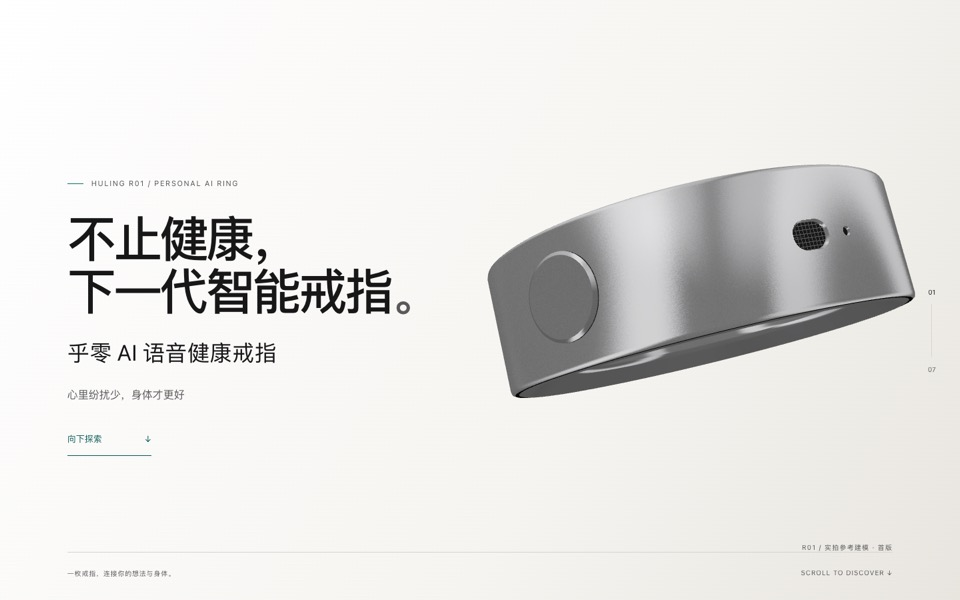
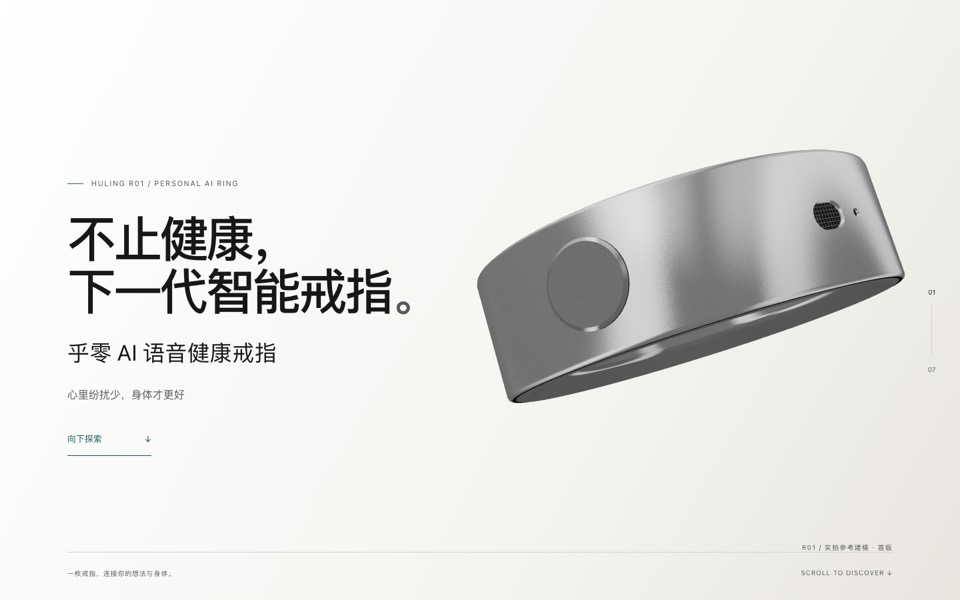
Fix glass floor add varied scroll rotation and interactive three-finish viewer

Changed region(s): [[0.5625, 0.24, 0.9688, 0.66], [0.5, 0.42, 0.5938, 0.69], [0.5312, 0.39, 0.5625, 0.42]]

diff --git a/motion-studies.js b/motion-studies.js
@@ -58,12 +58,40 @@
    ()=>newView(.73,.5,mix(.20,.30,q),.36,-.55,mix(-2,-.5,q))
   ][i]();
  }
- function controlsPose(v,p=0) {
-  return {...v,size:mobile.matches?v.size:Math.min(v.size,.26),rx:1.17+Math.sin(p*Math.PI)*.06,ry:-1.91+Math.sin(p*Math.PI*2)*.065,rz:.05+Math.sin(p*Math.PI)*.08};
+ const stopPoses=[
+  {rx:.95,ry:-1.82,rz:.30},
+  {rx:1.1,ry:-1.95,rz:-.20},
+  {rx:.75,ry:-2.12,rz:.48},
+  null,
+  {rx:1.05,ry:-1.72,rz:-.12},
+  {rx:.82,ry:-1.95,rz:.22},
+  {rx:.9,ry:-1.9,rz:.18}
+ ];
+ function controlsPose(v,p=0,scene=0) {
+  const pose=stopPoses[scene]||stopPoses[0];
+  // A full turn while travelling, then ease into a distinct readable hardware view.
+  const travel=1-smooth(clamp((p-.10)/.70));
+  const turn=(variant==='b'?1.15:variant==='c'?-.95:.85)*Math.PI*2*travel;
+  return {...v,size:mobile.matches?v.size:Math.min(v.size,.26),
+   rx:pose.rx+Math.sin(p*Math.PI*2)*.18*travel,
+   ry:pose.ry+turn,rz:pose.rz+Math.sin(p*Math.PI)*.42*travel};
  }
  function productView(i,p) {
   const v=rawProductView(i,p);
-  return i===3?v:controlsPose(v,p);
+  if(i===6)return {...v,x:.73,y:.5,size:mobile.matches?v.size:.28*Math.min(W*.44,H*.72)/Math.min(W,H),...stopPoses[6]};
+  return i===3?v:controlsPose(v,p,i);
+ }
+ // Conservative projection of the unchanged ring envelope, including perspective.
+ function ringEnvelope(v) {
+  const cx=Math.cos(v.rx),sx=Math.sin(v.rx),cy=Math.cos(v.ry),sy=Math.sin(v.ry),cz=Math.cos(v.rz),sz=Math.sin(v.rz);
+  const m=[cz*cy,sz*cy,-sy,cz*sy*sx-sz*cx,sz*sy*sx+cz*cx,cy*sx,cz*sy*cx+sz*sx,sz*sy*cx-cz*sx,cy*cx];
+  const scale=Math.min(W,H)*v.size,points=[];
+  for(const z of [-3.75/9.9,3.75/9.9])for(let j=0;j<128;j++){
+   const t=j/128*Math.PI*2,x=12.65/9.9*Math.cos(t),y=12.65/9.9*Math.sin(t);
+   const yy=m[1]*x+m[4]*y+m[7]*z,zz=m[2]*x+m[5]*y+m[8]*z;
+   points.push(yy*scale*5/(5-zz));
+  }
+  return {bottom:Math.max(...points),top:Math.min(...points)};
  }
  function ellipse(ctx,x,y,rx,ry,fill,stroke,lw=1) {
   ctx.beginPath();ctx.ellipse(x,y,Math.max(.1,rx),Math.max(.1,ry),0,0,Math.PI*2);
@@ -77,13 +105,17 @@
  }
  function waterView(p,alpha=1) {
   const c=cupGeometry(),motion=drop(p),diam=c.w*25.3/73;
-  const entry=c.top+c.h*.26,start=c.top-c.h*.22,bottom=c.top+c.h*.915-diam*.37;
+  const ringScale=diam/((25.3/9.9)*Math.min(W,H));
+  const settled=controlsPose(newView(c.cx/W,.5,ringScale,0,0,0,alpha),1,4);
+  const entry=c.top+c.h*.26,start=c.top-c.h*.22,bottom=c.top+c.h*.855-ringEnvelope(settled).bottom-2;
   // Air ends at the water line; water resistance then reduces translational and angular speed.
   let y=motion.distance<=.25?mix(start,entry,motion.distance/.25):mix(entry,bottom,(motion.distance-.25)/.75);
   const drift=(variant==='b'?Math.sin(p*5)*.08:variant==='c'?Math.sin(p*4)*.12:Math.sin(p*3)*.035)*c.w*(1-p);
-  const v=controlsPose(newView((c.cx+drift)/W,y/H,diam/((25.3/9.9)*Math.min(W,H)),0,0,0,alpha),p);
+  const v=controlsPose(newView((c.cx+drift)/W,y/H,diam/((25.3/9.9)*Math.min(W,H)),0,0,0,alpha),p,4);
+  const envelope=ringEnvelope(v),floorY=c.top+c.h*.855;
+  v.y=Math.min(v.y,(floorY-envelope.bottom-2)/H);
   drawGlass(c,p,alpha);
-  last.water={...c,ringDiameter:diam,ringY:y,submerged:motion.submerged,distance:motion.distance};
+  last.water={...c,ringDiameter:diam,ringY:v.y*H,floorY,pixelBottom:v.y*H+envelope.bottom,submerged:motion.submerged,distance:motion.distance};
   return v;
  }
  function drawGlass(c,p,a) {
@@ -96,12 +128,13 @@
    bg.globalCompositeOperation='source-over';
   }
   // Water occupies the straight inner bore above the 12 mm solid glass base.
-  const inset=w*.045,base=h*.085,innerBottom=bottom-base;
+  const inset=w*.045,base=h*.145,innerBottom=bottom-base;
   const water=bg.createLinearGradient(0,wy,0,innerBottom);
   water.addColorStop(0,'#89948c08');water.addColorStop(.85,'#737d7710');water.addColorStop(1,'#59595919');
   bg.fillStyle=water;bg.fillRect(left+inset,wy,w-2*inset,innerBottom-wy);
   ellipse(bg,cx,wy,w*.455,ry,null,'#59595945',.8);
   ellipse(bg,cx,innerBottom,w*.445,ry*.65,null,'#FFFFFFcc',1);
+  if(p>.80){bg.globalAlpha=a*smooth((p-.8)/.12)*.18;ellipse(bg,cx,innerBottom-1,w*.12,2,'#171717');bg.globalAlpha=a;}
   // Photograph's side walls and solid base sit in front of the submerged ring.
   if(glassPhoto.complete&&glassPhoto.naturalWidth) {
    fg.globalCompositeOperation='multiply';
@@ -184,7 +217,7 @@
   bg.fillText('≈ 5 g',lx,ly+hang+pan*.43);bg.fillText('4.6 g',rx,ry+hang+pan*.43);
   bg.restore();
   last.balance={tilt,leftPanY:ly+hang,rightPanY:ry+hang,planeL,ringDiameter:ringD,landed:p>=landing,bounds:{left:lx-pan*.55,right:rx+pan*.55,bottom:Math.max(ly,ry)+hang+pan*.43}};
-  return controlsPose(newView(rx/W,(ry+hang-ringD*.30)/H,ringD/((25.3/9.9)*Math.min(W,H)),0,0,0,alpha),0);
+  return controlsPose(newView(rx/W,(ry+hang-ringD*.30)/H,ringD/((25.3/9.9)*Math.min(W,H)),0,0,0,alpha),1,5);
  }
  function applyMobile(v,i) {
   if(!mobile.matches||i===4||i===5)return v;
@@ -200,7 +233,7 @@
   let p=clamp(local/(hold*.8));
   if(reduced.matches)p=1;
   const transition=clamp((local-hold)/H);
-  const alpha=1-smooth(transition);
+  const alpha=1-smooth(i===4?clamp(transition/.45):transition);
   last={scene:i,progress:p,transition,variant};
   let v=i===4?waterView(p,alpha):i===5?balanceView(p,alpha):applyMobile(productView(i,p),i);
   if(i!==4&&i!==5&&transition>0&&i<6) {
@@ -210,8 +243,15 @@
    if(i+1===5){Object.assign(target,{x:mobile.matches?.65:.88,y:mobile.matches?.74:.62,size:.015})}
    for(const key of Object.keys(v))v[key]=mix(v[key],target[key],t);
   }
-  if((i===4||i===5)&&transition>0&&i<6){const target=i===4?balanceView(0,0):applyMobile(productView(i+1,0),i+1),t=smooth(transition);for(const k of Object.keys(v))v[k]=mix(v[k],target[k],t);v.opacity=1;}
-  renderer.draw(v,W,H,i===2,finish);
+  if((i===4||i===5)&&transition>0&&i<6){const target=i===4?balanceView(0,0):applyMobile(productView(i+1,0),i+1),t=smooth(i===4?clamp((transition-.5)/.5):transition);for(const k of Object.keys(v))v[k]=mix(v[k],target[k],t);v.opacity=1;}
+  if(transition>0&&i<6&&!(i===4&&transition<=.5)&&!reduced.matches) {
+   v.ry+=Math.sin(transition*Math.PI*2)*(variant==='b'?1.5:variant==='c'?-1.3:1.1);
+   v.rz+=Math.sin(transition*Math.PI)*.35;
+  }
+  // Water remains collision-constrained during travel out of the glass as well.
+  if(i===4&&transition<=.5){const e=ringEnvelope(v),floorY=last.water.floorY;v.y=Math.min(v.y,(floorY-e.bottom-2)/H);last.water.pixelBottom=v.y*H+e.bottom;}
+  renderer.draw({...v,opacity:i===6?0:v.opacity},W,H,i===2,finish);
+  if(i===6)drawInspector();
   last.view={...v};canvas.dataset.finish=finish;canvas.dataset.scene=String(i);
   document.querySelector('#chapter').textContent=String(i+1).padStart(2,'0');
   document.documentElement.dataset.chapter=String(i);
@@ -225,7 +265,35 @@
   ScrollTrigger.create({start:0,end:()=>ScrollTrigger.maxScroll(window),onUpdate:()=>{if(ctx.conditions.reduce){state.scroll=scrollY;queue()}else follow(scrollY)},onRefresh:()=>{state.scroll=scrollY;resize()}});
  });
  addEventListener('resize',resize);document.fonts.ready.then(()=>{resize();ScrollTrigger.refresh()});resize();
- document.querySelectorAll('button[data-color]').forEach(button=>button.addEventListener('click',()=>{finish=button.dataset.color;document.querySelectorAll('button[data-color]').forEach(b=>b.setAttribute('aria-pressed',String(b===button)));document.querySelector('#color-caption').textContent=`已选择 · ${{silver:'雾银',black:'影黑',gold:'杏金'}[finish]}`;queue()}));
+ document.querySelectorAll('button[data-color]').forEach(button=>button.addEventListener('click',()=>{finish=button.dataset.color;document.querySelectorAll('button[data-color]').forEach(b=>b.setAttribute('aria-pressed',String(b===button)));drawInspector();document.querySelector('#color-caption').textContent=`已选择 · ${{silver:'雾银',black:'影黑',gold:'杏金'}[finish]}`;queue()}));
+ const inspectCanvas=document.querySelector('#finish-ring');
+ const inspectRenderer=createRingRenderer(inspectCanvas,{refined:true});
+ let inspection={rx:.9,ry:-1.9,rz:.18,zoom:1};
+ const pointers=new Map();let gesture=null;
+ function drawInspector(){
+  if(!inspectCanvas)return;
+  if(mobile.matches){const copyBottom=chapters[6].querySelector('.copy').getBoundingClientRect().bottom;inspectCanvas.parentElement.style.height=`${Math.max(100,Math.min(290,H-copyBottom-66))}px`;}else inspectCanvas.parentElement.style.height='';
+  const w=inspectCanvas.clientWidth,h=inspectCanvas.clientHeight,r=Math.min(devicePixelRatio||1,2);
+  if(inspectCanvas.width!==Math.round(w*r)||inspectCanvas.height!==Math.round(h*r)){inspectCanvas.width=Math.round(w*r);inspectCanvas.height=Math.round(h*r);inspectRenderer.resize();}
+  inspectRenderer.draw({x:.5,y:.5,size:.28*inspection.zoom,opacity:1,...inspection},w,h,false,finish);
+  inspectCanvas.dataset.finish=finish;
+ }
+ function zoom(value){inspection.zoom=clamp(value,.75,1.3);document.querySelector('#finish-zoom').value=String(Math.round(inspection.zoom*100));drawInspector();}
+ function resetInspection(){inspection={rx:.9,ry:-1.9,rz:.18,zoom:1};zoom(1);}
+ inspectCanvas.addEventListener('pointerdown',e=>{inspectCanvas.setPointerCapture(e.pointerId);pointers.set(e.pointerId,{x:e.clientX,y:e.clientY});gesture=null;});
+ inspectCanvas.addEventListener('pointermove',e=>{
+  if(!pointers.has(e.pointerId))return;
+  const previous=pointers.get(e.pointerId);pointers.set(e.pointerId,{x:e.clientX,y:e.clientY});
+  if(pointers.size===2){const a=[...pointers.values()],distance=Math.hypot(a[0].x-a[1].x,a[0].y-a[1].y);if(gesture)zoom(inspection.zoom*distance/gesture);gesture=distance;}
+  else {inspection.ry+=(e.clientX-previous.x)*.012;inspection.rx+=(e.clientY-previous.y)*.012;drawInspector();}
+ });
+ for(const type of ['pointerup','pointercancel','lostpointercapture'])inspectCanvas.addEventListener(type,e=>{pointers.delete(e.pointerId);gesture=null;});
+ inspectCanvas.addEventListener('wheel',e=>{e.preventDefault();zoom(inspection.zoom-e.deltaY*.001);},{passive:false});
+ inspectCanvas.addEventListener('keydown',e=>{const directions={ArrowLeft:[0,-.15],ArrowRight:[0,.15],ArrowUp:[-.15,0],ArrowDown:[.15,0]};if(directions[e.key]){e.preventDefault();inspection.rx+=directions[e.key][0];inspection.ry+=directions[e.key][1];drawInspector();}if(e.key==='Home'){e.preventDefault();resetInspection();}});
+ document.querySelector('#finish-zoom').addEventListener('input',e=>zoom(Number(e.target.value)/100));
+ document.querySelectorAll('[data-view]').forEach(b=>b.addEventListener('click',()=>{const presets={controls:{rx:.9,ry:-1.9,rz:.18},sensors:{rx:-.4,ry:-1,rz:1.95},side:{rx:.1,ry:-1.15,rz:-.5}};inspection={...inspection,...presets[b.dataset.view]};drawInspector();}));
+ document.querySelector('#finish-reset').addEventListener('click',resetInspection);
+ addEventListener('resize',()=>{if(last.scene===6)drawInspector()});
  // Read-only diagnostic values for repeatable browser acceptance, plus normal scroll seek.
- window.motionStudy={inspect:()=>JSON.parse(JSON.stringify(last)),dropSample:drop,underwater,seek:(scene,p)=>{scrollTo({top:tops[scene]+clamp(p)*Math.max(1,sizes[scene]-H)*.8,behavior:'instant'});ScrollTrigger.update()}};
+ window.motionStudy={inspect:()=>JSON.parse(JSON.stringify({...last,inspection})),dropSample:drop,underwater,seek:(scene,p)=>{scrollTo({top:tops[scene]+clamp(p)*Math.max(1,sizes[scene]-H)*.8,behavior:'instant'});ScrollTrigger.update()}};
 })();

diff --git a/motions.html b/motions.html
@@ -4,7 +4,7 @@
 *{box-sizing:border-box}body{margin:0;background:#F5F4F0;color:#171717;font-family:-apple-system,BlinkMacSystemFont,"PingFang SC","Microsoft YaHei",sans-serif}main{max-width:1600px;margin:auto;padding:48px 5vw}header{display:flex;justify-content:space-between;align-items:center;padding-bottom:48px;border-bottom:1px solid #D8D5CF}header img{width:240px}header a{font-size:13px;color:#595959;text-decoration:none}.intro{padding:64px 0 40px}.intro p{font-size:13px;color:#595959;line-height:1.8;margin:16px 0 0}h1{font-size:clamp(32px,4vw,56px);font-weight:500;letter-spacing:-.04em;margin:0}.grid{display:grid;grid-template-columns:repeat(3,1fr);gap:24px}.card{display:block;text-decoration:none;color:inherit;transition:transform .18s}.card:hover{transform:translateY(-2px)}.card img{width:100%;aspect-ratio:1.6;object-fit:cover;border:1px solid #D8D5CF;display:block}.row{display:flex;justify-content:space-between;align-items:center;margin-top:24px}h2{font-size:24px;font-weight:500;margin:0}.number{font-size:12px;color:#595959;margin-bottom:12px}.card p{color:#595959;font-size:14px;line-height:1.7;margin-top:12px}.arrow{font-size:24px;color:#075A55}.note{margin-top:64px;padding-top:24px;border-top:1px solid #D8D5CF;font-size:13px;color:#595959;line-height:1.8}a:focus-visible{outline:2px solid #0F766E;outline-offset:6px}@media(max-width:800px){main{padding:32px 24px}.grid{grid-template-columns:1fr;gap:40px}header{align-items:flex-start;gap:24px;flex-direction:column}.intro{padding-top:40px}.card img{aspect-ratio:1.6}.note{margin-top:40px}}@media(prefers-reduced-motion:reduce){.card{transition:none}}
 .shortcuts{display:grid;grid-template-columns:repeat(3,1fr);gap:24px;margin-top:24px}.shortcuts>div{display:flex;gap:20px;flex-wrap:wrap;font-size:13px}.shortcuts span{display:none}.shortcuts a{color:#075A55;text-decoration:underline;text-underline-offset:5px}@media(max-width:800px){.shortcuts{grid-template-columns:1fr}.shortcuts span{display:inline}}
 </style></head><body><main><header><img src="assets/wordmark.svg" alt="乎零 HULING"><a href="designs.html?v=29">上一轮视觉方案 ↗</a></header><div class="intro"><h1>让 R01，动起来。</h1><p>三套全新滚动轨迹 · 入水与天平独立成幕<br>向下滚动控制动作，也可以直接进入重点场景。</p></div><div class="grid">
-<a class="card" href="motion-a.html?v=31"><img src="assets/motion-previews/a.jpg?v=31" alt="A版暖白页面预览"><div class="row"><div><div class="number">方案 A</div><h2>A · 电影式推近</h2></div><span class="arrow">↗</span></div><p>从远景推到特写；入水急缓分明，纸飞机轻柔落盘。</p></a>
-<a class="card" href="motion-b.html?v=31"><img src="assets/motion-previews/b.jpg?v=31" alt="B版深色页面预览"><div class="row"><div><div class="number">方案 B</div><h2>B · 环绕式运镜</h2></div><span class="arrow">↗</span></div><p>小幅环绕与远近切换，按键、麦克风持续面向观众。</p></a>
-<a class="card" href="motion-c.html?v=31"><img src="assets/motion-previews/c.jpg?v=31" alt="C版黑白暖灰页面预览"><div class="row"><div><div class="number">方案 C</div><h2>C · 弧线滑行</h2></div><span class="arrow">↗</span></div><p>戒指沿弧线滑入、缩放定格；飞机以更明显的弧线进场。</p></a>
-</div><div class="shortcuts"><div><span>方案 A</span><a href="motion-a.html?v=31#water">直达入水 ↗</a><a href="motion-a.html?v=31#craft">直达天平 ↗</a></div><div><span>方案 B</span><a href="motion-b.html?v=31#water">直达入水 ↗</a><a href="motion-b.html?v=31#craft">直达天平 ↗</a></div><div><span>方案 C</span><a href="motion-c.html?v=31#water">直达入水 ↗</a><a href="motion-c.html?v=31#craft">直达天平 ↗</a></div></div><p class="note">每一幕的前半段随滚动演进，后半段完成转场。向上滚动可以倒看动作。三色戒指模型与上一轮视觉方案均保留。</p></main></body></html>
+<a class="card" href="motion-a.html?v=32"><img src="assets/motion-previews/a.jpg?v=32" alt="A版暖白页面预览"><div class="row"><div><div class="number">方案 A</div><h2>A · 电影式推近</h2></div><span class="arrow">↗</span></div><p>从远景推到特写；入水急缓分明，纸飞机轻柔落盘。</p></a>
+<a class="card" href="motion-b.html?v=32"><img src="assets/motion-previews/b.jpg?v=32" alt="B版深色页面预览"><div class="row"><div><div class="number">方案 B</div><h2>B · 环绕式运镜</h2></div><span class="arrow">↗</span></div><p>小幅环绕与远近切换，按键、麦克风持续面向观众。</p></a>
+<a class="card" href="motion-c.html?v=32"><img src="assets/motion-previews/c.jpg?v=32" alt="C版黑白暖灰页面预览"><div class="row"><div><div class="number">方案 C</div><h2>C · 弧线滑行</h2></div><span class="arrow">↗</span></div><p>戒指沿弧线滑入、缩放定格；飞机以更明显的弧线进场。</p></a>
+</div><div class="shortcuts"><div><span>方案 A</span><a href="motion-a.html?v=32#water">直达入水 ↗</a><a href="motion-a.html?v=32#craft">直达天平 ↗</a><a href="motion-a.html?v=32#finishes">交互模型 ↗</a></div><div><span>方案 B</span><a href="motion-b.html?v=32#water">直达入水 ↗</a><a href="motion-b.html?v=32#craft">直达天平 ↗</a><a href="motion-b.html?v=32#finishes">交互模型 ↗</a></div><div><span>方案 C</span><a href="motion-c.html?v=32#water">直达入水 ↗</a><a href="motion-c.html?v=32#craft">直达天平 ↗</a><a href="motion-c.html?v=32#finishes">交互模型 ↗</a></div></div><p class="note">每一幕的前半段随滚动演进，后半段完成转场。向上滚动可以倒看动作。三色戒指模型与上一轮视觉方案均保留。</p></main></body></html>

diff --git a/motion-a.html b/motion-a.html
@@ -9,11 +9,11 @@
   <title>乎零 R01 · 不止健康，下一代智能戒指</title>
   <link rel="stylesheet" href="style.css?v=17">
   <link rel="stylesheet" href="design-variants.css?v=29">
-  <script src="ring-renderer.js?v=31" defer></script>
-  <link rel="stylesheet" href="motion-studies.css?v=31">
+  <script src="ring-renderer.js?v=32" defer></script>
+  <link rel="stylesheet" href="motion-studies.css?v=32">
   <script src="assets/vendor/gsap.min.js" defer></script>
   <script src="assets/vendor/ScrollTrigger.min.js" defer></script>
-  <script src="motion-studies.js?v=31" defer></script>
+  <script src="motion-studies.js?v=32" defer></script>
 </head>
 <body>
   <a class="skip" href="#idea">跳到产品内容</a>
@@ -100,8 +100,14 @@
             <button type="button" data-color="black" aria-pressed="false"><span class="swatch black"></span>影黑</button>
             <button type="button" data-color="gold" aria-pressed="false"><span class="swatch gold"></span>杏金</button>
           </div>
+          <div class="viewer-tools" role="group" aria-label="模型观察视角">
+            <button type="button" data-view="controls">按键与麦克风</button><button type="button" data-view="sensors">内圈传感器</button><button type="button" data-view="side">侧面</button><button type="button" id="finish-reset">复位</button>
+          </div>
+          <label class="zoom-control">缩放<input id="finish-zoom" type="range" min="75" max="130" value="100"></label>
+          <p class="viewer-hint">拖动旋转 · 滚轮或双指缩放</p>
           <p class="color-caption" id="color-caption" aria-live="polite">当前展示 · 雾银</p>
         </div>
+        <div class="finish-viewer"><canvas id="finish-ring" tabindex="0" aria-label="R01 三色交互模型，拖动或方向键旋转，Home 复位"></canvas></div>
       </div></section>
     </div>
     <section class="closing">

diff --git a/motion-b.html b/motion-b.html
@@ -9,11 +9,11 @@
   <title>乎零 R01 · 不止健康，下一代智能戒指</title>
   <link rel="stylesheet" href="style.css?v=17">
   <link rel="stylesheet" href="design-variants.css?v=29">
-  <script src="ring-renderer.js?v=31" defer></script>
-  <link rel="stylesheet" href="motion-studies.css?v=31">
+  <script src="ring-renderer.js?v=32" defer></script>
+  <link rel="stylesheet" href="motion-studies.css?v=32">
   <script src="assets/vendor/gsap.min.js" defer></script>
   <script src="assets/vendor/ScrollTrigger.min.js" defer></script>
-  <script src="motion-studies.js?v=31" defer></script>
+  <script src="motion-studies.js?v=32" defer></script>
 </head>
 <body>
   <a class="skip" href="#idea">跳到产品内容</a>
@@ -100,8 +100,14 @@
             <button type="button" data-color="black" aria-pressed="false"><span class="swatch black"></span>影黑</button>
             <button type="button" data-color="gold" aria-pressed="false"><span class="swatch gold"></span>杏金</button>
           </div>
+          <div class="viewer-tools" role="group" aria-label="模型观察视角">
+            <button type="button" data-view="controls">按键与麦克风</button><button type="button" data-view="sensors">内圈传感器</button><button type="button" data-view="side">侧面</button><button type="button" id="finish-reset">复位</button>
+          </div>
+          <label class="zoom-control">缩放<input id="finish-zoom" type="range" min="75" max="130" value="100"></label>
+          <p class="viewer-hint">拖动旋转 · 滚轮或双指缩放</p>
           <p class="color-caption" id="color-caption" aria-live="polite">当前展示 · 雾银</p>
         </div>
+        <div class="finish-viewer"><canvas id="finish-ring" tabindex="0" aria-label="R01 三色交互模型，拖动或方向键旋转，Home 复位"></canvas></div>
       </div></section>
     </div>
     <section class="closing">

diff --git a/motion-c.html b/motion-c.html
@@ -9,11 +9,11 @@
   <title>乎零 R01 · 不止健康，下一代智能戒指</title>
   <link rel="stylesheet" href="style.css?v=17">
   <link rel="stylesheet" href="design-variants.css?v=29">
-  <script src="ring-renderer.js?v=31" defer></script>
-  <link rel="stylesheet" href="motion-studies.css?v=31">
+  <script src="ring-renderer.js?v=32" defer></script>
+  <link rel="stylesheet" href="motion-studies.css?v=32">
   <script src="assets/vendor/gsap.min.js" defer></script>
   <script src="assets/vendor/ScrollTrigger.min.js" defer></script>
-  <script src="motion-studies.js?v=31" defer></script>
+  <script src="motion-studies.js?v=32" defer></script>
 </head>
 <body>
   <a class="skip" href="#idea">跳到产品内容</a>
@@ -100,8 +100,14 @@
             <button type="button" data-color="black" aria-pressed="false"><span class="swatch black"></span>影黑</button>
             <button type="button" data-color="gold" aria-pressed="false"><span class="swatch gold"></span>杏金</button>
           </div>
+          <div class="viewer-tools" role="group" aria-label="模型观察视角">
+            <button type="button" data-view="controls">按键与麦克风</button><button type="button" data-view="sensors">内圈传感器</button><button type="button" data-view="side">侧面</button><button type="button" id="finish-reset">复位</button>
+          </div>
+          <label class="zoom-control">缩放<input id="finish-zoom" type="range" min="75" max="130" value="100"></label>
+          <p class="viewer-hint">拖动旋转 · 滚轮或双指缩放</p>
           <p class="color-caption" id="color-caption" aria-live="polite">当前展示 · 雾银</p>
         </div>
+        <div class="finish-viewer"><canvas id="finish-ring" tabindex="0" aria-label="R01 三色交互模型，拖动或方向键旋转，Home 复位"></canvas></div>
       </div></section>
     </div>
     <section class="closing">

diff --git a/motion-studies.css b/motion-studies.css
@@ -84,3 +84,25 @@ html[data-chapter="4"] .stage-caption,html[data-chapter="4"] .chapter-index,html
 
 html[data-chapter="4"] #scene-back,html[data-chapter="4"] #scene-front { mix-blend-mode:multiply; }
 .stage .ring-fallback { z-index:2; }
+.finish-viewer { position:absolute; right:5vw; top:14%; width:44vw; height:72%; z-index:5; }
+#finish-ring { width:100%; height:100%; touch-action:none; cursor:grab; outline-offset:-4px; }
+#finish-ring:active { cursor:grabbing; }
+.viewer-tools { display:flex; flex-wrap:wrap; gap:8px; margin-top:24px; }
+.viewer-tools button { color:inherit; background:transparent; border:1px solid var(--hairline); min-height:44px; padding:9px 12px; cursor:pointer; font-size:12px; }
+.viewer-tools button:hover { border-color:currentColor; }
+.zoom-control { display:flex; align-items:center; gap:16px; margin-top:16px; font-size:12px; color:var(--secondary); }
+.zoom-control input { max-width:210px; width:60%; accent-color:#075A55; min-height:36px; }
+.viewer-hint { color:var(--secondary); font-size:12px; margin-top:8px; }
+@media(max-width:767px) {
+ .finish-viewer { top:auto; bottom:50px; right:0; width:100%; height:290px; }
+ .finishes .scene-pin { padding-top:32px; }
+ .finishes h2 { font-size:30px; }
+ .finishes .eyebrow { margin-bottom:12px; }
+ .finishes .color-picker { margin-top:20px; }
+ .viewer-tools { margin-top:16px; gap:6px; }
+ .viewer-tools button { padding:8px; font-size:11px; }
+ .zoom-control { margin-top:8px; }
+}
+.finish-viewer { visibility:hidden; }
+html[data-chapter="6"] .finish-viewer { visibility:visible; }
+#finish-ring:focus-visible { outline:2px solid #0F766E; }

diff --git a/README.md b/README.md
@@ -110,3 +110,11 @@ Playwright 检查三种材质、五种屏幕宽度、五个视角及灯光缩放
 - Updated three fallback PNGs are exported directly from the new renderer; model inspection states the new inner diameter. Previous committed versions remain available in Git history.
 
 - v31 QA: 126 responsive scene checks passed again; 54 control-facing samples passed; all three finishes and reduced motion passed; cup and ring ratios verified. No WebGL fallback uses the updated model PNGs. Public deployment is verified separately before delivery.
+
+## 2026-11-06 · v32 collision, motion and embedded inspection
+
+- Glass landing now uses a perspective-projected conservative ring envelope rather than an estimated center offset. The lowest ring point settles 2 px above the photograph's inner floor; water fill stops at that inner floor. The glass fades before the ring travels toward the next scene, preventing exit through a visible wall.
+- Scroll travel rotates substantially again, with variant-dependent turn direction/amplitude. Separate resting poses favor the button/microphone/light; the health chapter keeps the sensor view. Reduced motion still shows stable end states.
+- Each finish chapter embeds the same current three-color model as a separate interactive viewer: drag, two-finger pinch, wheel/range zoom, hardware/sensor/side presets, reset and arrow-key rotation (Home resets). Color changes preserve inspection orientation. The inspector is shown only during that chapter; its state is independent of scroll animation.
+- Ring geometry, dimensions, material definitions and three finish assets were not changed for v32.
+- Playwright: 54 late-drop floor checks across three variants and six widths; 6 final-contact checks at 1440 and 390px verified ~2px clearance. All three embedded viewers passed drag, distinct finish renders without camera reset, presets, range zoom, keyboard and mobile layout checks. Native browser touch events verified pinch zoom. Short-phone layout and reduced-motion contact were checked separately.
